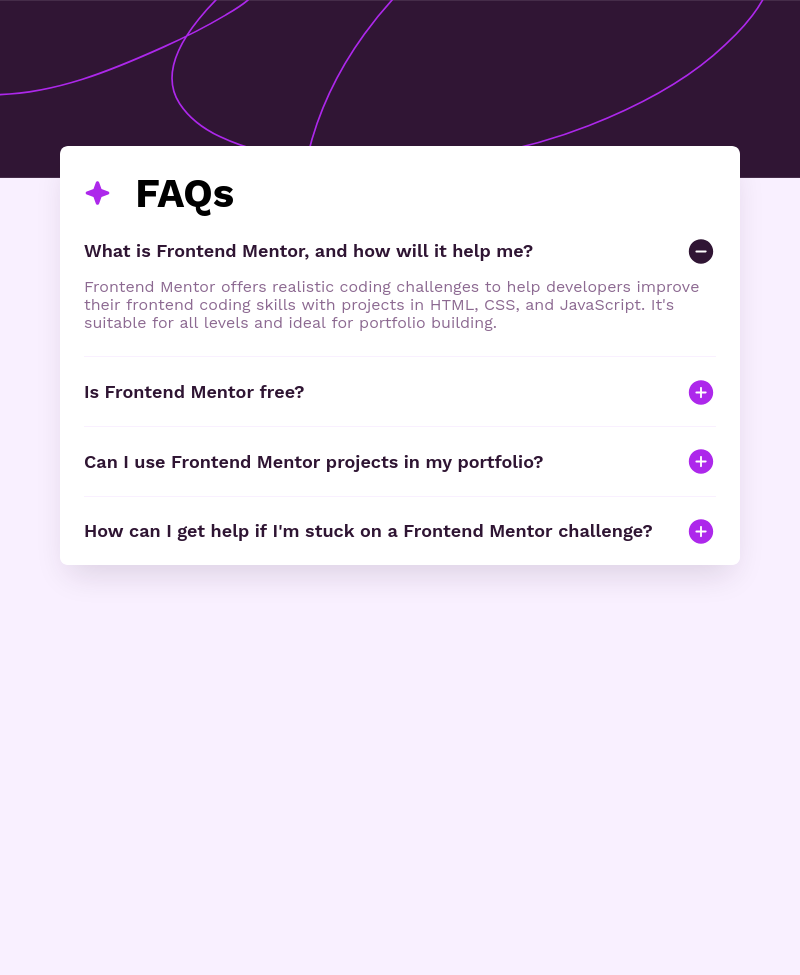
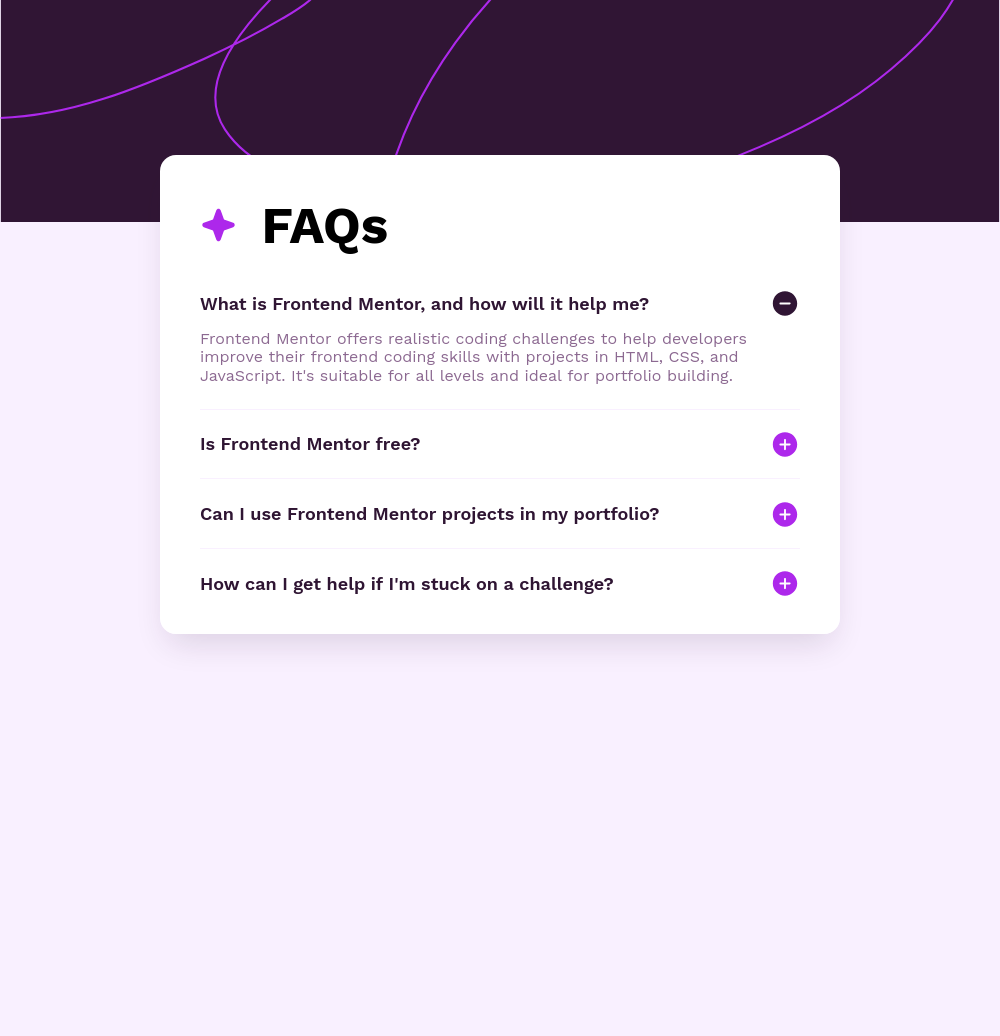
improve 03-faq-accordion styles>:

diff --git a/03-faq-accordion/styles.css b/03-faq-accordion/styles.css
@@ -3,6 +3,7 @@
   --purple-100: hsl(275, 100%, 97%);
   --purple-600: hsl(292, 16%, 49%);
   --purple-950: hsl(292, 42%, 14%);
+  --purple-hover: hsl(292, 42%, 44%);
 }
 
 body {
@@ -25,8 +26,8 @@ main {
   margin: 0 auto;
   background-color: var(--white);
   margin-top: 15dvh;
-  padding: 1.5rem;
-  border-radius: 0.5rem;
+  padding: 2.5rem;
+  border-radius: 1rem;
   box-shadow: 0 1rem 2rem -0.5rem color-mix(in hsl, var(--purple-950) 15%, transparent);
 }
 
@@ -35,15 +36,17 @@ main {
   align-items: center;
   justify-content: start;
   gap: 1.5rem;
-  margin-bottom: 1.5rem;
+  margin-bottom: 2.4rem;
+
+  font-size: 3.2rem;
 
   h1 {
     margin: 0;
-    font-size: 2.5rem;
+    font-size: 1em;
   }
 
   img {
-    height: 1.75rem;
+    height: 0.75em;
   }
 }
 
@@ -63,6 +66,11 @@ details {
     position: relative;
     text-wrap: pretty;
     padding-right: 2.5rem;
+    transition: .2s ease-in-out color;
+
+    &:hover {
+      color: var(--purple-hover);
+    }
 
     &::after {
       content: url("assets/images/icon-plus.svg");

diff --git a/03-faq-accordion/index.html b/03-faq-accordion/index.html
@@ -72,7 +72,7 @@
 
       <details name="faq">
         <summary>
-          How can I get help if I'm stuck on a Frontend Mentor challenge?
+          How can I get help if I'm stuck on a challenge?
         </summary>
         <p>
           The best place to get help is inside Frontend Mentor's Discord
